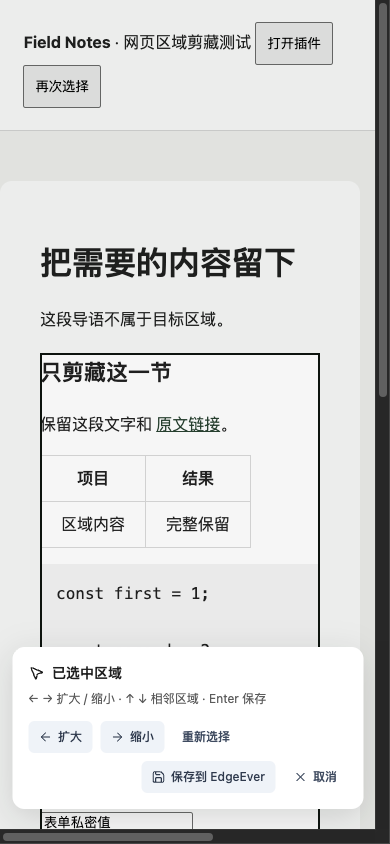
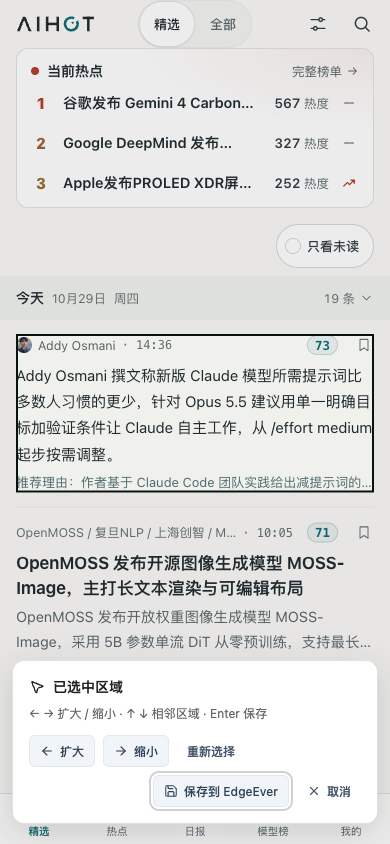
docs(extension): replace region clip screenshots with aihot.news verification (#703)

diff --git a/docs/changes/evidence/2026-10-29-region-clip/README.md b/docs/changes/evidence/2026-10-29-region-clip/README.md
@@ -10,7 +10,7 @@ The actual built popup and `region-clip.js` were exercised in Ego Lite Chromium 
 - Selected output preserved headings, links, a table, code blank lines and the image URL. Navigation, the intro, the next section, CSS/HTML-hidden text and input values were absent from the selected payload. See `browser-captures.json`.
 - Repeated activation left one picker. Scrolling kept the outline at the selected element's rectangle (observed top: `-57.4844px`, element: `-57.484375px`).
 - A controlled save failure retained the region and showed the error. Repeated Enter while the save response was held produced exactly one completed save. Removed regions and changed URLs produced no write. Replacing the hovered DOM before clicking selected the new click target, not the stale element.
-- At a 390px viewport / 375px available width, the toolbar occupied x=12–363, width=351, and bottom=809 inside height=844. See `selected-390px.png`; `selected-desktop.png` and `popup.png` show the other states. Shadow-root translation and sizing were corrected during inspection.
+- At a 390px viewport (`https://aihot.news/`), the toolbar occupied x=12–378, width=366, and bottom=824 inside height=844 (`x=12–363, width=351, bottom=809` at 375px available width on the local fixture). See `selected-390px.png`; `selected-desktop.png` and `popup.png` show the desktop card selection and popup entry on `https://aihot.news/`. Shadow-root translation and sizing were corrected during inspection.
 
 ## Source and build checks
 

diff --git a/docs/changes/evidence/2026-10-29-region-clip/README.zh-CN.md b/docs/changes/evidence/2026-10-29-region-clip/README.zh-CN.md
@@ -10,7 +10,7 @@
 - 输出保留标题、链接、表格、代码空行及图片 URL，不含导航、导语、下一节、CSS/HTML 隐藏内容和输入框值，见 `browser-captures.json`。
 - 重复启动只保留一个选择器；滚动后边框仍贴合选区，观察到边框 top 为 `-57.4844px`、元素 top 为 `-57.484375px`。
 - 受控保存失败时保留区域并显示错误；挂起保存响应期间连续按 Enter，最终仅保存一次。区域移除或 URL 改变均未写入；悬停后替换 DOM，再点击会选中新的实际目标，不会保存旧元素。
-- 390px 视口、375px 可用宽度下，工具条 x=12–363、宽351、bottom=809，位于高844的视口内，见 `selected-390px.png`；桌面选区及弹窗见 `selected-desktop.png`、`popup.png`。检查中修正了 Shadow DOM 内的平移和宽度计算。
+- 390px 视口（`https://aihot.news/`）下，工具条 x=12–378、宽366、bottom=824，位于高844的视口内（本地夹具 375px 可用宽度下为 x=12–363、宽351、bottom=809），见 `selected-390px.png`；`https://aihot.news/` 上的桌面卡片选区及弹窗入口见 `selected-desktop.png`、`popup.png`。检查中修正了 Shadow DOM 内的平移和宽度计算。
 
 ## 源码与构建检查
 
